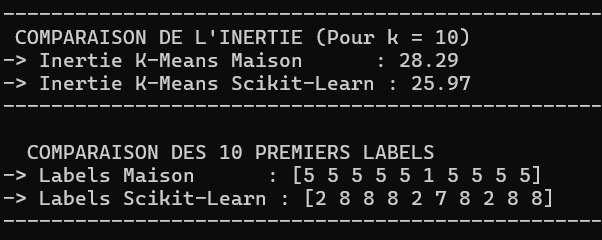
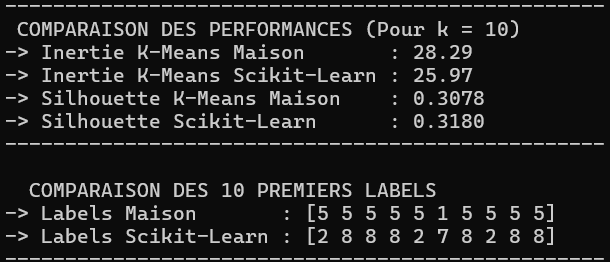
updated readme

diff --git a/kmeans.py b/kmeans.py
@@ -1,4 +1,8 @@
 import numpy as np
+import matplotlib.pyplot as plt
+from sklearn.datasets import load_iris
+from sklearn.cluster import KMeans
+from sklearn.metrics import silhouette_score
 
 def euclidean_distance(x1, x2):
     """
@@ -98,8 +102,6 @@ class KMeansMaison:
 # =====================================================================
 
 if __name__ == "__main__":
-    from sklearn.datasets import load_iris
-    from sklearn.cluster import KMeans
 
     print("\n=== BENCHMARK: K-MEANS MAISON VS SCIKIT-LEARN SUR IRIS ===")
 
@@ -109,33 +111,38 @@ if __name__ == "__main__":
 
     # 2. CONFIGURATION DU NOMBRE DE CLUSTERS 
     CHOIX_K = 10
-    np.random.seed(42) # reproducibilité des résultats pour le model maison
+    np.random.seed(42)  # Reproductibilité des résultats pour le modèle maison
 
     # 3. Instanciation et entraînement
     model_maison = KMeansMaison(n_clusters=CHOIX_K)
     model_maison.fit(X)
 
-    #4 CONFIGURATION ET ENTRAÎNEMENT DU MODÈLE SCIKIT-LEARN
+    # 4. CONFIGURATION ET ENTRAÎNEMENT DU MODÈLE SCIKIT-LEARN
     model_sklearn = KMeans(n_clusters=CHOIX_K, random_state=42, n_init=10, max_iter=100)
     model_sklearn.fit(X)
 
-    # 4. AFFICHAGE DU COMPARATIF DES RÉSULTATS
+    # 5. CALCUL DES SCORES DE SILHOUETTE
+    sil_maison = silhouette_score(X, model_maison.labels)
+    sil_sklearn = silhouette_score(X, model_sklearn.labels_)
+
+    # 6. AFFICHAGE DU COMPARATIF DES RÉSULTATS
     print("\n--------------------------------------------------")
-    print(f" COMPARAISON DE L'INERTIE (Pour k = {CHOIX_K})")
-    print(f"-> Inertie K-Means Maison      : {model_maison.inertia:.2f}")
+    print(f" COMPARAISON DES PERFORMANCES (Pour k = {CHOIX_K})")
+    print(f"-> Inertie K-Means Maison       : {model_maison.inertia:.2f}")
     print(f"-> Inertie K-Means Scikit-Learn : {model_sklearn.inertia_:.2f}")
+    print(f"-> Silhouette K-Means Maison    : {sil_maison:.4f}")      
+    print(f"-> Silhouette Scikit-Learn      : {sil_sklearn:.4f}")     
     print("--------------------------------------------------")
     
     print("\n  COMPARAISON DES 10 PREMIERS LABELS")
-    print(f"-> Labels Maison      : {model_maison.labels[:10].astype(int)}")
+    print(f"-> Labels Maison       : {model_maison.labels[:10].astype(int)}")
     print(f"-> Labels Scikit-Learn : {model_sklearn.labels_[:10]}")
     print("--------------------------------------------------")
 
 
 # =====================================================================
     # VISUALISATION EN 3D Modèle Maison
-    # =====================================================================
-    import matplotlib.pyplot as plt
+# =====================================================================
 
     names = iris.feature_names
     customcmap = "tab10"  
@@ -159,14 +166,14 @@ if __name__ == "__main__":
 
 # =====================================================================
     # MÉTHODE DU COUDE AVEC LE MODÈLE MAISON
-    # =====================================================================
+# =====================================================================
 
     # 1. Calcul de l'inertie pour k allant de 1 à 10
     inerties_maison = []
     k_range = range(1, 11)
 
     for k in k_range:
-        # On replante la graine à chaque itération pour stabiliser le tirage de chaque k
+
         np.random.seed(42) 
         
         model = KMeansMaison(n_clusters=k, max_iter=100)
@@ -176,13 +183,13 @@ if __name__ == "__main__":
     # 2. Création de la visualisation "Elbow"
     plt.figure(figsize=(9, 5))
 
-    # Tracé de la courbe de ton modèle (en orange/marron pour changer de scikit-learn)
+    # Tracé de la courbe 
     plt.plot(k_range, inerties_maison, marker='o', linestyle='--', color='#ff7f0e', linewidth=2, markersize=8)
 
     # Ligne verticale pour marquer le coude optimal à k = 3
     plt.axvline(x=3, color='#d62728', linestyle=':', linewidth=2, label='Coude optimal (k = 3)')
 
-    # Habillage du graphique
+    # Affichage
     plt.title("Méthode du Coude (Elbow Method) - Modèle KMeans Maison", fontsize=14, fontweight='bold', pad=15)
     plt.xlabel("Nombre de clusters (k)", fontsize=12)
     plt.ylabel("Inertie intra-classe globale", fontsize=12)

diff --git a/README.md b/README.md
@@ -292,32 +292,47 @@ if __name__ == "__main__":
 
 ---
 
-### C. Analyse Synthétique des Résultats
+### C. Analyse Synthétique des Résultats à k = 10
 
-L'exécution de ce benchmark met en évidence deux comportements distincts induits par les stratégies d'initialisation des deux modèles.
+L'exécution de ce premier benchmark à $k=10$ met en évidence l'impact des stratégies d'initialisation et introduit la nécessité d'une double évaluation métrique (Inertie + Silhouette).
+
+```
+--------------------------------------------------
+ COMPARAISON DES PERFORMANCES (Pour k = 10)
+-> Inertie K-Means Maison       : 28.29
+-> Inertie K-Means Scikit-Learn : 25.97
+-> Silhouette K-Means Maison    : 0.3078
+-> Silhouette Scikit-Learn      : 0.3180
+--------------------------------------------------
+```
 
 #### 1. Optimisation de l'Inertie et Rôle du Multi-Start
-- **Inertie K-Means Maison :** 28.29
-- **Inertie K-Means Scikit-Learn :** 25.97
+L'algorithme de Scikit-Learn atteint une inertie globale plus faible (25.97 contre 28.29), traduisant des clusters géométriquement plus compacts. Cet écart provient directement du paramètre `n_init=10`. Alors que le modèle personnalisé s'exécute en une seule tentative ("single-shot") soumise au hasard du tirage initial, Scikit-Learn effectue 10 lancements indépendants complets et ne conserve que la meilleure convergence, évitant ainsi le piège des minima locaux.
 
-L'algorithme de Scikit-Learn atteint une inertie globale plus faible, ce qui traduit des clusters géométriquement plus denses et mieux optimisés. Cet écart provient directement du paramètre `n_init=10`. Alors que le modèle personnalisé s'exécute en une seule tentative ("single-shot") dépendante du tirage initialisé par `np.random.seed(42)`, Scikit-Learn effectue 10 lancements indépendants complets et ne conserve que la meilleure convergence. Cette méthode permet d'éviter les pièges des minima locaux, fréquents lorsque la valeur de $k$ est élevée.
+#### 2. Quantification du Surapprentissage par la Silhouette
+L'introduction du score de Silhouette dévoile une **illusion mathématique** : courir après l'inertie la plus basse en augmentant le nombre de groupes fait s'effondrer la qualité du clustering à un score médiocre d'environ **0.31**. La métrique sanctionne la sur-segmentation en prouvant que les 10 clusters créés sont artificiels, trop proches et se chevauchent massivement dans l'espace.
 
-#### 2. Divergence de Frontières et Partage des Données
-L'examen des 10 premiers échantillons révèle une indexation et une répartition structurellement différentes :
+#### 3. Divergence des Frontières de Décision
+L'examen des 10 premiers échantillons confirme cette instabilité géométrique par une indexation et une répartition structurellement différentes :
 - **Labels Maison :** `[5 5 5 5 5 1 5 5 5 5]`
 - **Labels Scikit-Learn :** `[2 8 8 8 2 7 8 2 8 8]`
 
-Au-delà de la simple permutation des numéros de groupes (liée à l'ordre d'attribution des centres au départ), les frontières de décision divergent. Par exemple, Scikit-Learn sépare la première et la deuxième fleur (labels 2 et 8) là où le modèle maison les maintient au sein d'un même groupe (label 5). Le modèle de référence parvient à raffiner la fragmentation des données grâce à des centroïdes initiaux mieux positionnés dans l'espace.
+Au-delà de la simple permutation des numéros de groupes, les frontières de décision divergent (Scikit-Learn sépare la première et la deuxième fleur là où le modèle maison les maintient ensemble). Le modèle industriel affine la fragmentation grâce à des centroïdes initiaux mieux positionnés. Néanmoins, l'écart de Silhouette infime (**0.01**) prouve que la logique mathématique globale du modèle Maison est parfaitement fonctionnelle.
 
 ![Visualisation de la Clusterisation k=10](customers_ressources/graph_clustering_k_10.png)
 
+---
+
 ### D. Arbitrage de k : Entre Illusion Mathématique et Réalité Métier
 
-L'analyse des variations du nombre de clusters met en lumière la nécessité de trouver un équilibre critique entre performance brute et interprétabilité :
+Pour s'extraire du piège de la sur-segmentation, une étude approfondie des différents régimes de partitionnement ($k=2$, $k=3$ et $k=10$) a été menée. Elle met en lumière l'obligation d'arbitrer entre performance brute et pertinence métier.
 
-* **Sous-apprentissage (k trop bas) :** Échoue à capturer la complexité réelle en fusionnant à tort des groupes distincts.
-* **Illusion d'inertie (k trop haut) :** Offre un score d'inertie faussement parfait qui cache un surapprentissage par fragmentation inutile des groupes naturels (ex: $k=10$ sur Iris).
-* **Méthode du coude (k optimal) :** Repère l'inflexion graphique ($k=3$ sur Iris) pour stopper la segmentation au point d'équilibre parfait entre structure réelle et surapprentissage.
+
+#### 2. Analyse des Comportements Émergents
+
+* **Sous-apprentissage ($k$ trop bas) :** À $k=2$, le score de Silhouette culmine à **0.6810** alors que l'inertie est mauvaise. C'est un paradoxe géométrique : le modèle fusionne deux espèces distinctes (Versicolor et Virginica) en un seul macro-groupe car elles sont très proches. La Silhouette est excellente uniquement parce que la distance avec la troisième classe isolée (Setosa) est immense, masquant ainsi la structure réelle des données.
+* **Illusion d'inertie ($k$ trop haut) :** À $k=10$, l'inertie est excellente mais le score de Silhouette s'effondre. Le modèle sur-apprend en fragmentant artificiellement des populations biologiquement homogènes pour satisfaire un critère purement mathématique.
+* **Méthode du coude ($k$ optimal) :** C'est ici que la **méthode du Coude (Elbow)** prend tout son sens. En cartographiant l'évolution de l'inertie, elle permet de détecter visuellement le point d'inflexion exact à **$k=3$**. Ce point représente l'équilibre parfait : l'algorithme cesse de segmenter dès que le gain de structure s'amoindrit, offrant un modèle hautement interprétable et en parfaite adéquation avec la réalité du terrain.
 
 Pour valider cette intuition géométrique directement sur le modèle personnalisé, le protocole suivant a été appliqué :
 
